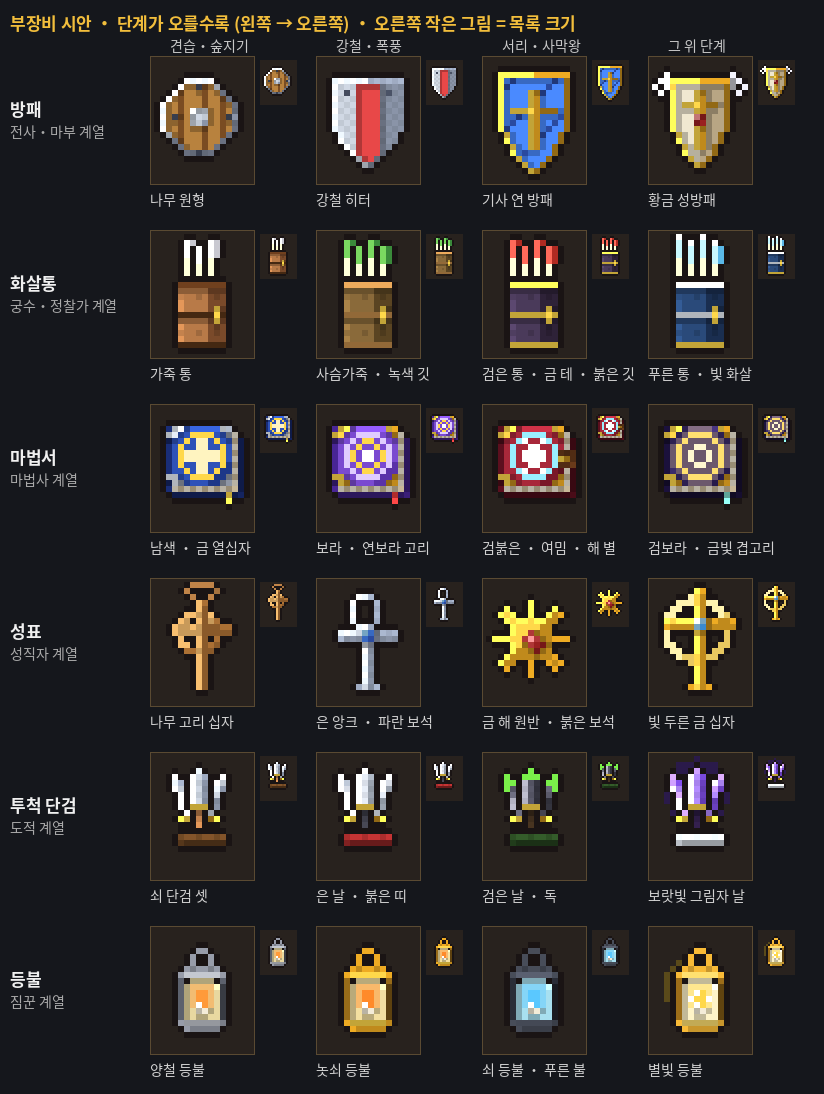
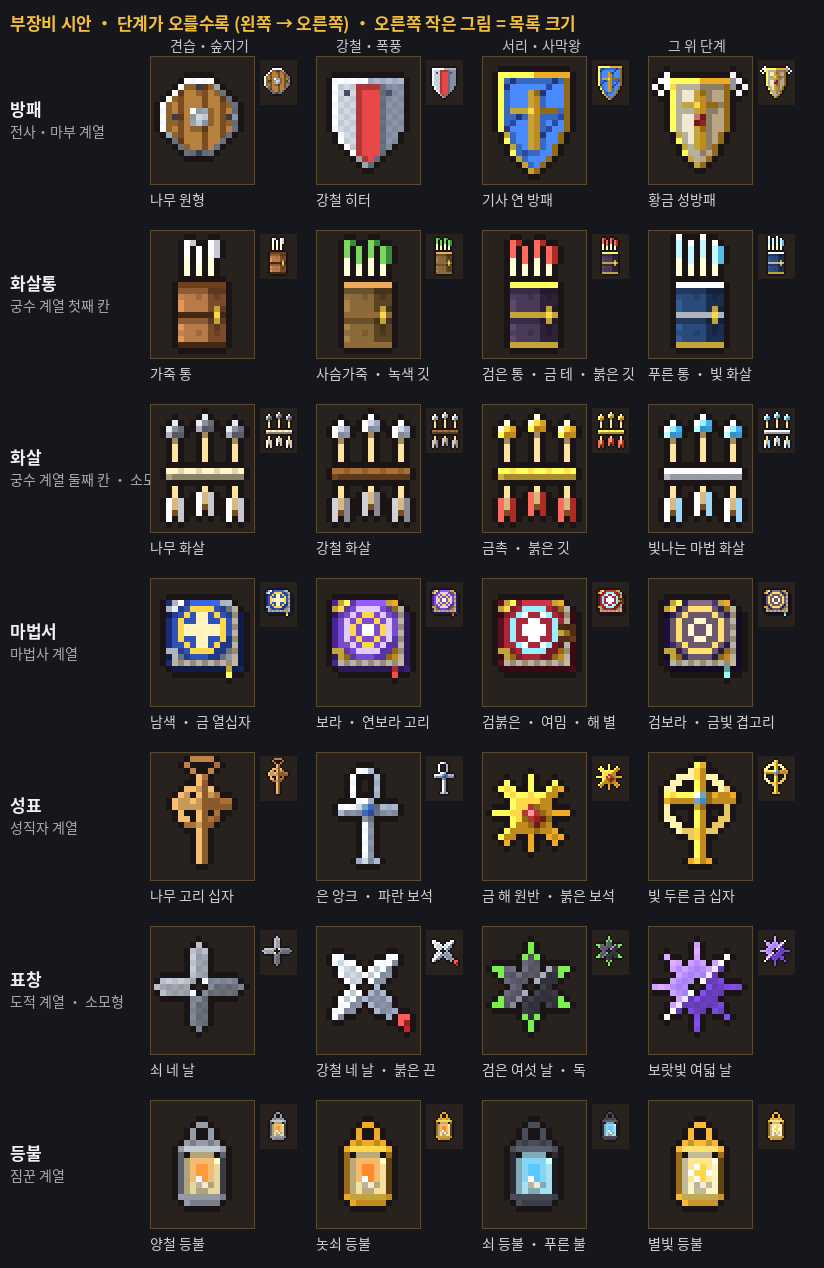
부장비 시안 둘째 판: 화살(궁수 둘째 칸)·표창(도적) 추가, 투척 단검 뺌
Claude-Session: https://claude.ai/code/session_01WLiZx3Lii4cu91RuDKqyaT

diff --git a/drafts/skill-icons/dot/offhand.py b/drafts/skill-icons/dot/offhand.py
@@ -161,12 +161,59 @@ def lantern(a, metal, metal2, dark, glass, flame, flame2, core='#ffffff', glow_c
 def lantern_1(a): lantern(a, '#c4c8d0', '#7a7e88', '#4a4e58', '#e8d8a0', '#ff9a3a', '#ffd060')
 def lantern_2(a): lantern(a, '#ffd84a', '#c08a1c', '#7a5614', '#f4e0a0', '#ff8a2a', '#ffd060')
 def lantern_3(a): lantern(a, '#5a6070', '#3a3e48', '#22242c', '#a8e0f0', '#5ac8ff', '#c8f8ff')
-def lantern_4(a): lantern(a, '#ffe070', '#c8962c', '#7e5814', '#fff4c8', '#ffd84a', '#fff8d0', glow_c=['#5a4a1a', '#a88a3a'], star=True)
+def lantern_4(a): lantern(a, '#ffe070', '#c8962c', '#7e5814', '#fff4c8', '#ffd84a', '#fff8d0', star=True)
+# ───────── 화살 (궁수 계열 둘째 칸, 소모형: 기본 공격마다 1발) ─────────
+def arrow_line(cm, xt, yt, xb, yb, head, shaft, fl, nock='T'):
+    n = max(abs(xb - xt), abs(yb - yt)); pts = []
+    for i in range(n + 1): pts.append((round(xt + (xb - xt) * i / n), round(yt + (yb - yt) * i / n)))
+    for (x, y) in pts[2:-3]: cm[(x, y)] = shaft
+    x0, y0 = pts[0]; x1, y1 = pts[1]
+    cm[(x0, y0)] = head[0]; cm[(x1, y1)] = head[1]; cm[(x1 - 1, y1)] = head[0]; cm[(x1 + 1, y1)] = head[2]
+    for (x, y) in pts[-3:-1]: cm[(x, y)] = fl[0]; cm[(x - 1, y)] = fl[0]; cm[(x + 1, y)] = fl[1]
+    xb_, yb_ = pts[-1]; cm[(xb_, yb_)] = nock
+ARROW1 = ['.w.', 'wmM', 'mMM'] + ['.t.'] * 10 + ['ftF', 'ftF', 'fTF', 'f.F']
+def arrows(a, n, head, fl, band, glow_c=None):
+    """곧게 세운 화살 셋 (가운데가 한 칸 위) — 한 대씩 따로 테두리, 가운데를 띠로 묶음"""
+    if glow_c: glow(a, 7.5, 3.0, 5.0, glow_c)
+    pal = {'w': (head[0], 5), 'm': (head[1], 5), 'M': (head[2], 5), 't': ('#d8b880', 3), 'T': ('#7a4c22', 3), 'f': (fl[0], 1), 'F': (fl[1], 1), 'q': (band, 9), 'Q': (mix(band, '#000000', 0.35), 9)}
+    xs = {2: [(4, 1), (10, 1)], 3: [(2, 2), (12, 2), (7, 1)]}[n]
+    for (x, y) in xs: sp(a, ARROW1, x, y, pal)
+    x0, x1 = min(x for x, _ in xs), max(x for x, _ in xs) + 2
+    sp(a, ['q' * (x1 - x0 + 1), 'Q' * (x1 - x0 + 1)], x0, 10, pal)
+def arrows_1(a): arrows(a, 3, ('#c8ccd4', '#8a8e98', '#5a5e68'), ('#ffffff', '#c8c8d0'), '#d8c8a0')
+def arrows_2(a): arrows(a, 3, ('#ffffff', '#d0d8e4', '#8a94a8'), ('#d0d0d8', '#8a8a94'), '#8a5a2a')
+def arrows_3(a): arrows(a, 3, ('#fff4c0', '#ffd84a', '#c08a1c'), ('#ff6a5a', '#b02a22'), '#ffd84a')
+def arrows_4(a): arrows(a, 3, ('#ffffff', '#9aeeff', '#3a9ad4'), ('#ffffff', '#9ad8ff'), '#e8eef8')
+# ───────── 표창 (도적 계열, 투척 단검 대신 · 소모형: 기본 공격마다 하나 더 던짐) ─────────
+def star_blade(a, n, R, Ri, rot, cols, hole=1.0, cx=7.5, cy=9.5, glow_c=None, tipc=None, pow_=3.0):
+    if glow_c: glow(a, cx, cy, R + 1.5, glow_c)
+    cm = {}
+    for y in range(H):
+        for x in range(W):
+            dx, dy = x + 0.5 - cx, y + 0.5 - cy; d = math.hypot(dx, dy)
+            if d < hole: continue
+            th = math.atan2(dy, dx) - math.radians(rot)
+            r = Ri + (R - Ri) * ((math.cos(n * th) + 1) / 2) ** pow_
+            if d <= r:
+                if tipc and d > R - 2.0: cm[(x, y)] = 'c'
+                else: cm[(x, y)] = 'm' if dx + dy < -0.5 else 'M' if dx + dy > 0.5 else 'w'
+    for y in range(H):
+        for x in range(W):
+            if (x, y) not in cm and math.hypot(x + 0.5 - cx, y + 0.5 - cy) < hole + 0.9 and math.hypot(x + 0.5 - cx, y + 0.5 - cy) >= hole: cm[(x, y)] = 'n'
+    pal = {'w': (cols[0], 5), 'm': (cols[1], 5), 'M': (cols[2], 5), 'n': (mix(cols[2], '#000000', 0.4), 5), 'c': (tipc or '#ffffff', 1)}
+    sp(a, grid(cm), pal)
+def shuri_1(a): star_blade(a, 4, 7.2, 2.6, -90, ('#c8ccd4', '#a0a6b0', '#6a707c'), hole=1.1, pow_=1.4)
+def shuri_2(a):
+    star_blade(a, 4, 7.4, 2.4, -45, ('#ffffff', '#d0d8e4', '#8a94a8'), hole=1.1, pow_=1.6)
+    sp(a, ['rr', 'rR', '.R'], 13, 14, {'r': ('#e84848', 13), 'R': ('#9a2020', 13)})
+def shuri_3(a): star_blade(a, 6, 7.0, 3.0, -90, ('#8a8a98', '#5a5a68', '#34343e'), hole=1.2, tipc='#7af04a', pow_=1.5)
+def shuri_4(a): star_blade(a, 8, 7.2, 3.6, -90, ('#f0e4ff', '#b48cff', '#6a40c0'), hole=1.4, pow_=1.3)
 OFF = [('shield', '방패', '전사·마부 계열', [shield_round, shield_heater, shield_kite, shield_gold], ['나무 원형', '강철 히터', '기사 연 방패', '황금 성방패']),
-       ('quiver', '화살통', '궁수·정찰가 계열', [quiver_1, quiver_2, quiver_3, quiver_4], ['가죽 통', '사슴가죽 · 녹색 깃', '검은 통 · 금 테 · 붉은 깃', '푸른 통 · 빛 화살']),
+       ('quiver', '화살통', '궁수 계열 첫째 칸', [quiver_1, quiver_2, quiver_3, quiver_4], ['가죽 통', '사슴가죽 · 녹색 깃', '검은 통 · 금 테 · 붉은 깃', '푸른 통 · 빛 화살']),
+       ('arrows', '화살', '궁수 계열 둘째 칸 · 소모형', [arrows_1, arrows_2, arrows_3, arrows_4], ['나무 화살', '강철 화살', '금촉 · 붉은 깃', '빛나는 마법 화살']),
        ('tome', '마법서', '마법사 계열', [tome_1, tome_2, tome_3, tome_4], ['남색 · 금 열십자', '보라 · 연보라 고리', '검붉은 · 여밈 · 해 별', '검보라 · 금빛 겹고리']),
        ('relic', '성표', '성직자 계열', [holy_celtic, holy_ankh, holy_sun, holy_relic], ['나무 고리 십자', '은 앙크 · 파란 보석', '금 해 원반 · 붉은 보석', '빛 두른 금 십자']),
-       ('knives', '투척 단검', '도적 계열', [knives_1, knives_2, knives_3, knives_4], ['쇠 단검 셋', '은 날 · 붉은 띠', '검은 날 · 독', '보랏빛 그림자 날']),
+       ('shuriken', '표창', '도적 계열 · 소모형', [shuri_1, shuri_2, shuri_3, shuri_4], ['쇠 네 날', '강철 네 날 · 붉은 끈', '검은 여섯 날 · 독', '보랏빛 여덟 날']),
        ('lantern', '등불', '짐꾼 계열', [lantern_1, lantern_2, lantern_3, lantern_4], ['양철 등불', '놋쇠 등불', '쇠 등불 · 푸른 불', '별빛 등불'])]
 TIER_RANGE = ['견습·숲지기', '강철·폭풍', '서리·사막왕', '그 위 단계']
 def render(fn, z):
